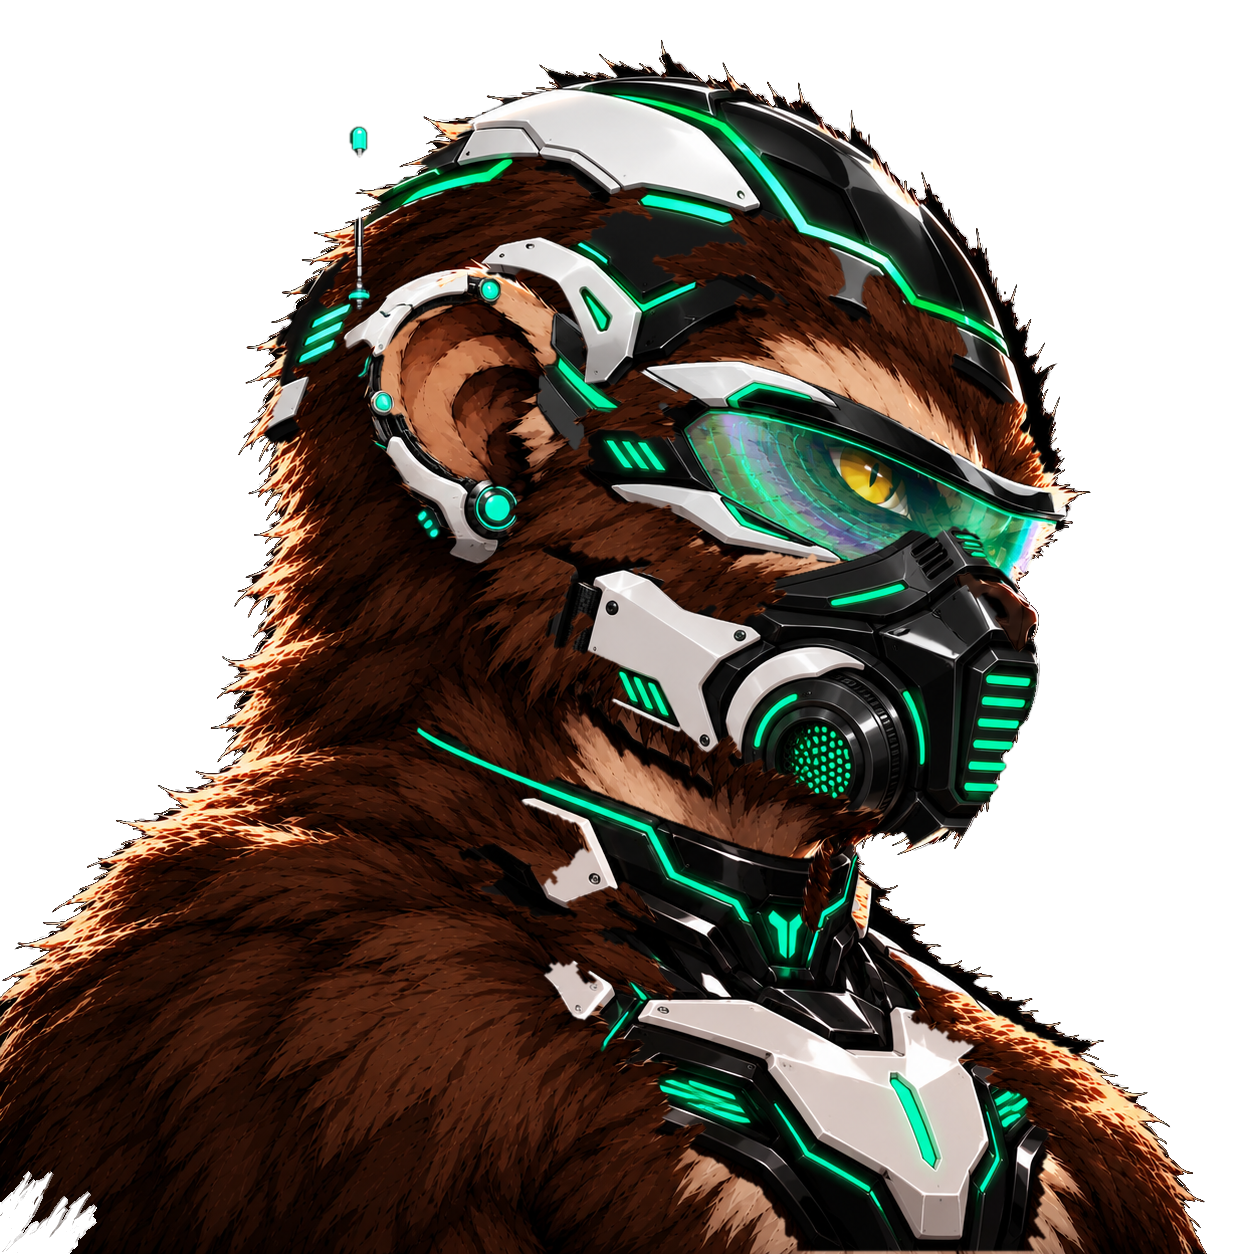
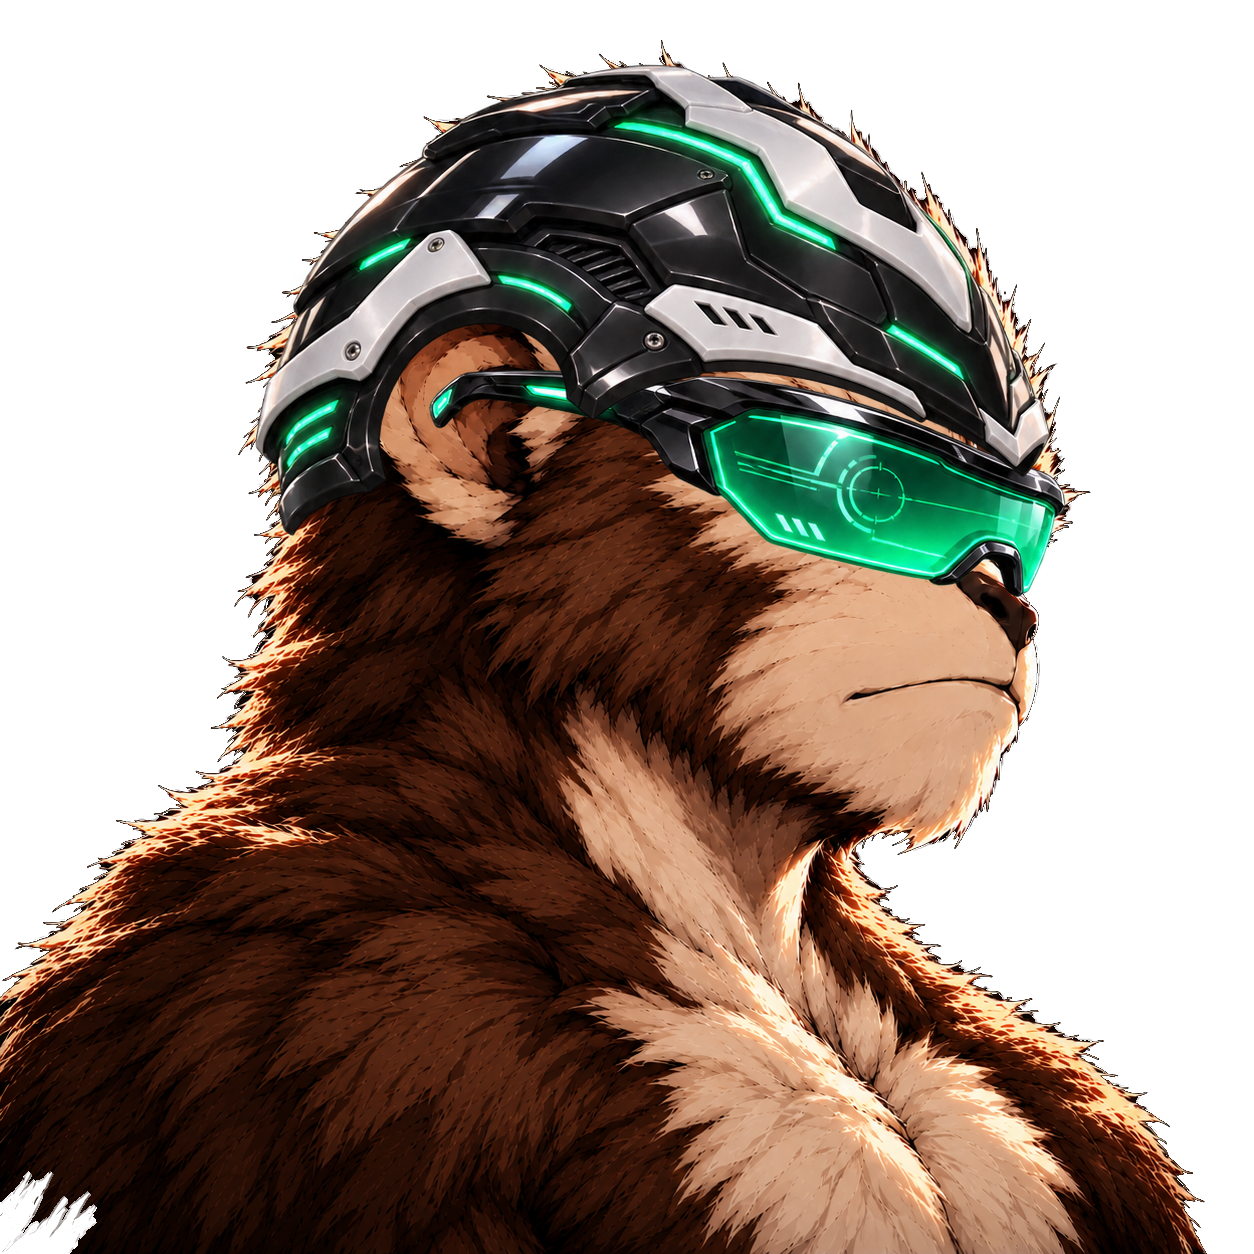
update

diff --git a/index.html b/index.html
@@ -1,6 +1,6 @@
 <!doctype html><html><head><meta charset=utf-8><meta name=viewport content="width=device-width"><title>TRAITS SHARTS</title><style>
 body{background:#000;color:#fff;font-family:system-ui;text-align:center}h1{color:#00EC97}
 #s{position:relative;width:min(90vw,640px);aspect-ratio:1;margin:auto;background:repeating-conic-gradient(#777 0 25%,#bbb 0 50%) 0 0/32px 32px;border:2px solid #00EC97}
-#s img{position:absolute;inset:0;width:100%;height:100%}label{display:inline-block;margin:8px 12px;font-size:18px}
-</style></head><body><h1>TRAITS SHARTS</h1><div id=s><img src=base.png><img id="t-collar" src="traits/collar.png"><img id="t-earpiece" src="traits/earpiece.png"><img id="t-helmet" src="traits/helmet.png"><img id="t-mask" src="traits/mask.png"><img id="t-visor" src="traits/visor.png"></div><div><label><input type=checkbox checked data-t="collar"> collar</label><label><input type=checkbox checked data-t="earpiece"> earpiece</label><label><input type=checkbox checked data-t="helmet"> helmet</label><label><input type=checkbox checked data-t="mask"> mask</label><label><input type=checkbox checked data-t="visor"> visor</label></div>
-<script>document.querySelectorAll('input').forEach(c=>c.onchange=()=>document.getElementById('t-'+c.dataset.t).style.display=c.checked?'':'none')</script></body></html>
+#s img{position:absolute;inset:0;width:100%;height:100%}fieldset{display:inline-block;border:1px solid #00EC97;margin:10px;text-align:left}legend{color:#00EC97}label{display:block;margin:6px;font-size:18px}
+</style></head><body><h1>TRAITS SHARTS</h1><div id=s><img src=base.png><img class=glasses id=glasses_holo_visor src=traits/glasses_holo_visor.png style=display:none><img class=glasses id=glasses_hud_monocle src=traits/glasses_hud_monocle.png style=display:none><img class=glasses id=glasses_neon_shades src=traits/glasses_neon_shades.png style=display:none><img class=hat id=hat_cyber_helmet src=traits/hat_cyber_helmet.png style=display:none><img class=hat id=hat_tech_cap src=traits/hat_tech_cap.png style=display:none></div><fieldset><legend>Glasses</legend><label><input type=radio name=glasses value='' checked> None</label><label><input type=radio name=glasses value=glasses_holo_visor> holo_visor</label><label><input type=radio name=glasses value=glasses_hud_monocle> hud_monocle</label><label><input type=radio name=glasses value=glasses_neon_shades> neon_shades</label></fieldset><fieldset><legend>Hats</legend><label><input type=radio name=hat value='' checked> None</label><label><input type=radio name=hat value=hat_cyber_helmet> cyber_helmet</label><label><input type=radio name=hat value=hat_tech_cap> tech_cap</label></fieldset>
+<script>document.querySelectorAll('input').forEach(r=>r.onchange=()=>{document.querySelectorAll('img.'+r.name).forEach(i=>i.style.display=i.id==r.value?'':'none')})</script></body></html>
